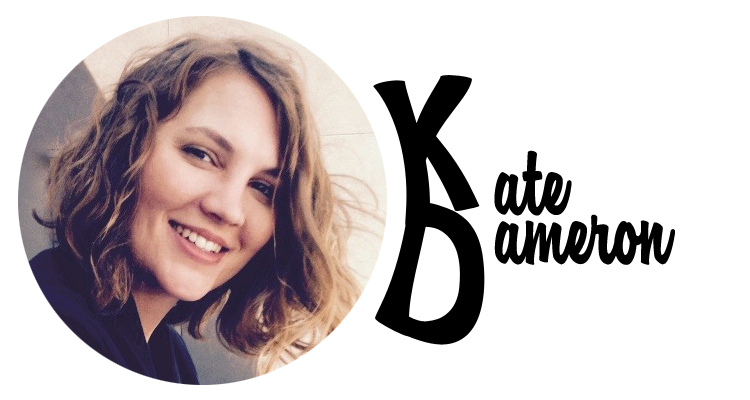
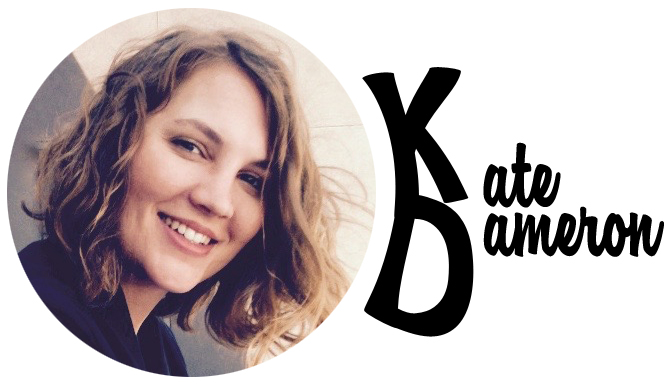
testing css in test.html - in progress, header

diff --git a/test.html b/test.html
@@ -4,31 +4,49 @@
     <meta charset="UTF-8">
     <meta name="viewport" content="width=device-width, initial-scale=1.0">
     <title>Kate Dameron</title>
-    <link rel="stylesheet" href="style.css">
+    <link rel="stylesheet" href="CSS/reset.css">
+    <link rel="stylesheet" href="CSS/base.css">
+    <link rel="stylesheet" href="CSS/header.css">
+    <link rel="stylesheet" href="CSS/portfolio.css">
+    <link rel="stylesheet" href="CSS/social.css">
 </head>
 <body>
     <header>
        <img class="header-img" src="images/portfolio-header-2.jpg" alt="A photo of Kate Dameron next to her name"> 
-       <h2>UX Designer, Web Developer & Artist interested in meaningful project collaborations and opportunities to boost positive change within communities.</h2>
-       <a href="#portfolio"><div class="scroll-arrow"></div></a> 
+       <!-- <h2>UX Designer, Web Developer & Artist interested in meaningful project collaborations and opportunities to boost positive change within communities.</h2> -->
+       <!-- <a href="#portfolio"><div class="scroll-arrow"></div></a>  -->
+       <!-- <img class="header-span-img hide" src="images/landscape-3.jpg" alt="Red rock hill next to Horse Shoe Bend, Arizona"> -->
     </header>
-    <section id="portfolio">
+    <!-- <section id="portfolio">
         <h4><span class="arrow right"></span>work</h4>
-        <a href="https://github.com/Katedam/Jam-Time">
-            <img src="images/jam-time-thumbnail.jpg" alt="Thumbnail showing the homepage for the site 'Jame Time'">
-                <div class="arrow-container">
-                    <span class="arrow down"></span>
-                </div>
-            </a>
-        <p class="info hide">A blurb about this site and the best parts to focus on</p>
-        <a href="https://github.com/Katedam/Studio-Portfolio-Site"><img src="images/studio-portfolio-thumbnail.jpg" alt="Thumbnail showing the homepage for Kate Dameron's Art Portfolio site"><span class="arrow down"></span></a>
-        <p class="info hide">A blurb about this site and the best parts to focus on</p>
-        <a href="https://github.com/Katedam/market-analysis-app"><img src="images/market-analysis-thumbnail.jpg" alt="Thumbnail showing the homepage for the BusMall Market Analysis App"><span class="arrow down"></span></a>
-        <p class="info hide">A blurb about this site and the best parts to focus on</p>
-        <a href="https://github.com/Katedam/cookie-store"><img src="images/salmon-cookies-thumbnail.jpg" alt="Thumbnail showing the homepage for Pat's Cookies and Coffee Shop"><span class="arrow down"></span></a>
-        <p class="info hide">A blurb about this site and the best parts to focus on</p>
+        <div class="template">
+            <img src="" alt="">
+            <a href=""></a>
+            <p></p>
+        </div>
     </section>
-    <h4><span class="arrow right"></span>contact me</h4>
-    <h4><span class="arrow right"></span>social</h4>
+    <section class="social-links">
+        <a class="social" href="mailto:hello@katedameron.com">
+            <img class="social-icons" src="images/if_mail_email_envelope_send_message_1011335.png" alt="envelope icon to connect via email">
+        </a>
+        <a class="social" href="www.linkedin.com/in/kate-dameron">
+            <img class="social-icons" src="images/if_linked_in_online_social_media_734393.png" alt="linkedIn icon to connect via linkedIn">
+        </a>
+        <a class="social" href="https://github.com/Katedam">
+            <img class="social-icons" src="images/if_social_media_logo_github_1221585.png" alt="Github icon to connect via Github">
+        </a> 
+        <a class="social" href="https://twitter.com/katerj">
+            <img class="social-icons" src="images/if_twitter_online_social_media_734367.png" alt="Twitter icon to connect via twitter">
+        </a>
+        <a class="social" href="https://www.instagram.com/katedameron/">
+            <img class="social-icons" src="images/if_instagram_online_social_media_photo_734395.png" alt="Instagram icon to connect via instagram">
+        </a>
+        <a class="social" href="https://www.facebook.com/katejohnsondameron">
+            <img class="social-icons" src="images/if_online_social_media_facebook_734386.png" alt="Facebook icon to connect via facebook">
+        </a>  
+    </section> -->
+    <script src="JS/jquery-3.3.1.js"></script>
+    <script type="text/javascript" src="JS/project-data.js"></script>
+    <script type="text/javascript" src="JS/scripts.js"></script>
 </body>
 </html>

diff --git a/index.html b/index.html
@@ -22,8 +22,8 @@
         <div class="template">
             <img src="" alt="">
             <a href=""></a>
+            <p></p>
         </div>
-        <p></p>
     </section>
     <section class="social-links">
         <a class="social" href="mailto:hello@katedameron.com">

diff --git a/CSS/header.css b/CSS/header.css
@@ -45,8 +45,8 @@ header h2 {
         width: 70%;
     }
     .header-img {
-        position: static;
-        margin: 15% auto;
+        left: 0;
+        margin: 0 auto;
         width: 70%;
     }
     .header-span-img {

diff --git a/JS/scripts.js b/JS/scripts.js
@@ -19,7 +19,6 @@ Project.prototype.toHtml = function() {
         });
     $newProject.children('a').attr('src', this.url).text('+');
     $newProject.children('p').text(this.blurb);
-
     return $newProject;    
 }
 
